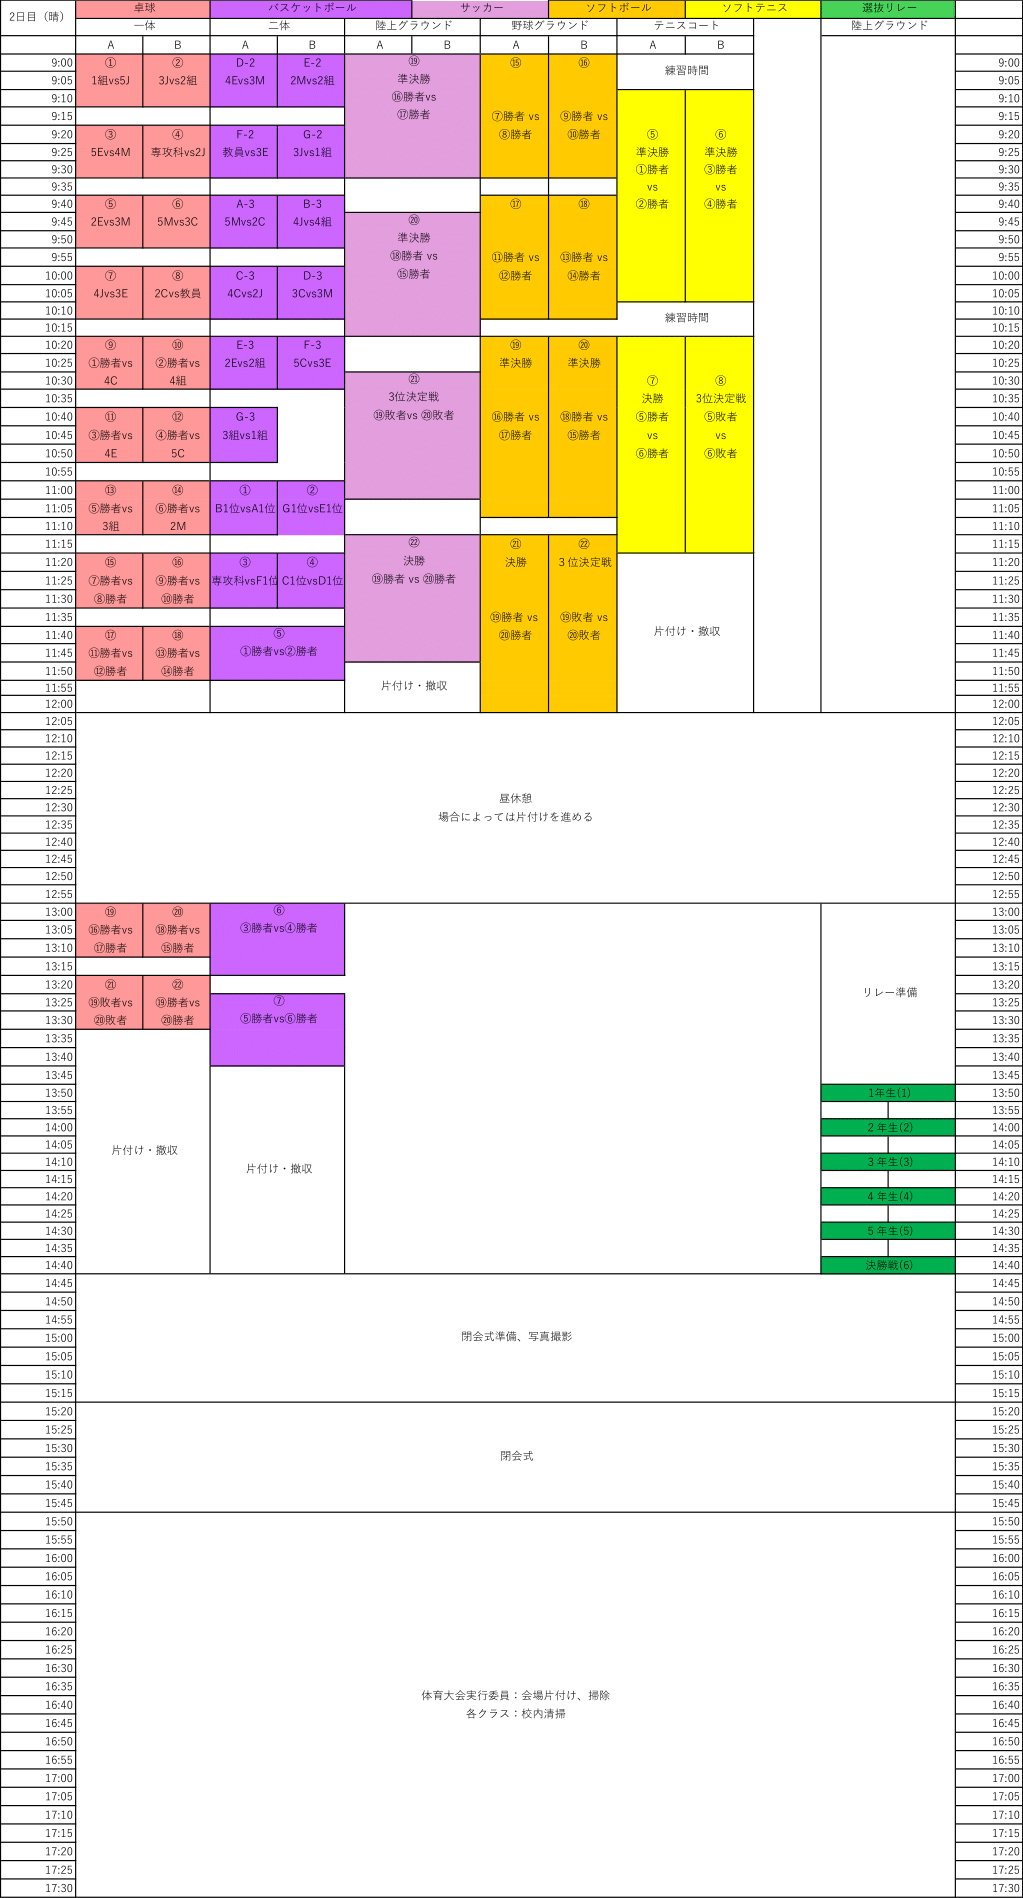
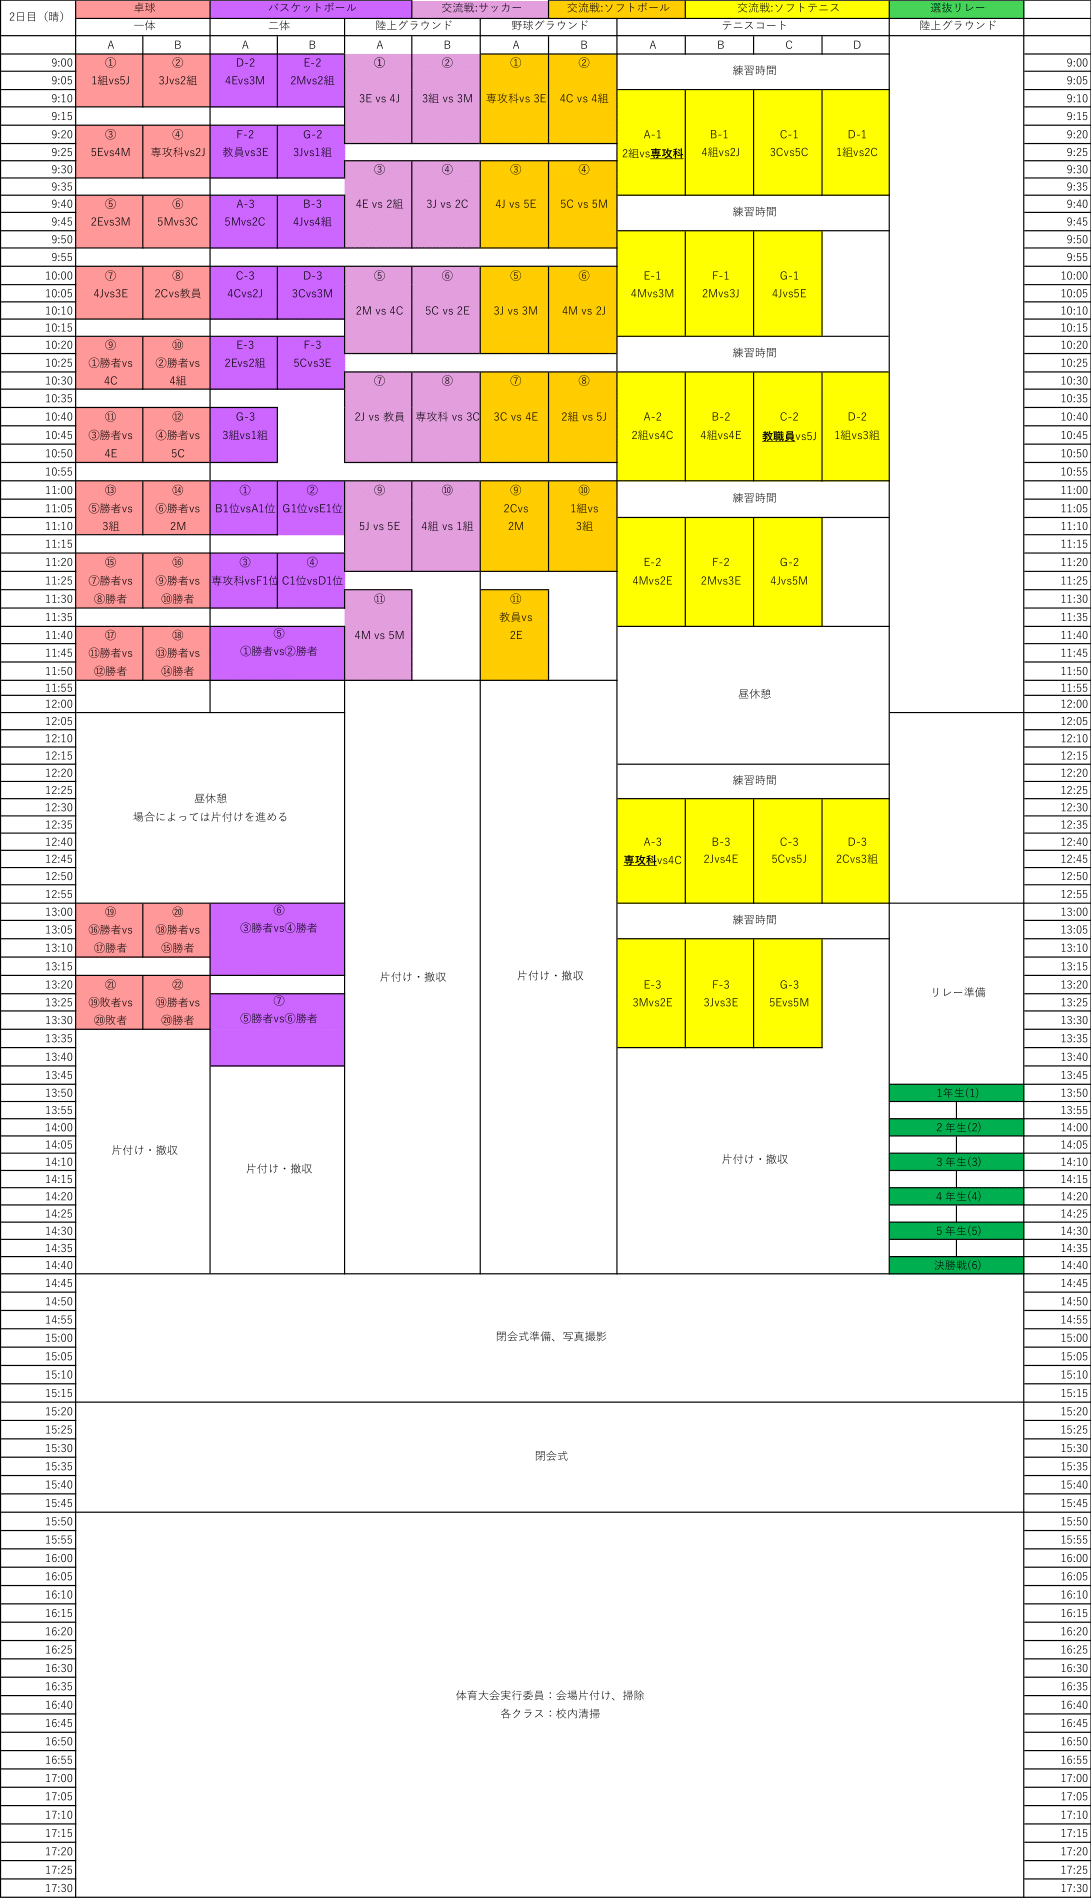
2日目日程に合わせてスケジュール等修正

diff --git a/src/components/schedule/Schedule.tsx b/src/components/schedule/Schedule.tsx
@@ -27,17 +27,17 @@ const Schedule = async () => {
                     quality={100}
                     className="object-cover aspect-[0.5878481013] !h-full !w-auto"
                 />
-                <div className="absolute z-80 bottom-0  left-0 w-full h-[calc(100%-0.0263291139%)] ">
-                    <TimeLine startTime={"2025/05/22 08:16"} endTime={"2025/05/22 17:22"}/> 
-                {/*    -15分*/}
-                </div>
+                {/*<div className="absolute z-80 bottom-0  left-0 w-full h-[calc(100%-0.0263291139%)] ">*/}
+                {/*    <TimeLine startTime={"2025/05/22 08:16"} endTime={"2025/05/22 17:22"}/> */}
+                {/*/!*    -15分*!/*/}
+                {/*</div>*/}
             </div>
             <h2 className="flex justify-center mx-2 mt-8 mb-4  text-2xl ">
-                2日目 (2025/05/23)
+                2日目 (2025/05/23) 変更後
             </h2>
             <div
                 className={
-                    "relative  max-w-[1024px] w-full h-auto  aspect-[0.5389884089] "
+                    "relative  max-w-[1024px] w-full h-auto  aspect-[0.5748155954] "
                 }
             >
                 <Image
@@ -47,10 +47,10 @@ const Schedule = async () => {
                     priority={true}
                     sizes="1024px"
                     quality={100}
-                    className="object-cover aspect-[0.5389884089] !h-full !w-auto"
+                    className="object-cover aspect-[0.5748155954] !h-full !w-auto"
                 />
                 <div className="absolute z-80 top-0 left-0 w-full h-full pt-[0.0273972603%] ">
-                    <TimeLine startTime={"2025/05/23 08:45"} endTime={"2025/05/23 17:15"}/>
+                    <TimeLine startTime={"2025/05/23 09:00"} endTime={"2025/05/23 17:00"}/>
                 {/*    -15分*/}
                 </div>
             </div>

diff --git a/src/components/common/Bracket.tsx b/src/components/common/Bracket.tsx
@@ -317,7 +317,7 @@ const Bracket = ({
 			) : (
 				<div className="bg-background rounded-lg  p-8 text-center">
 					<p className="text-gray-500">
-						ロード中∨この種目には対戦表データがありません。
+						この種目には対戦表データがありません。<br />屋外競技は交流戦となりました。
 					</p>
 				</div>
 			)}
